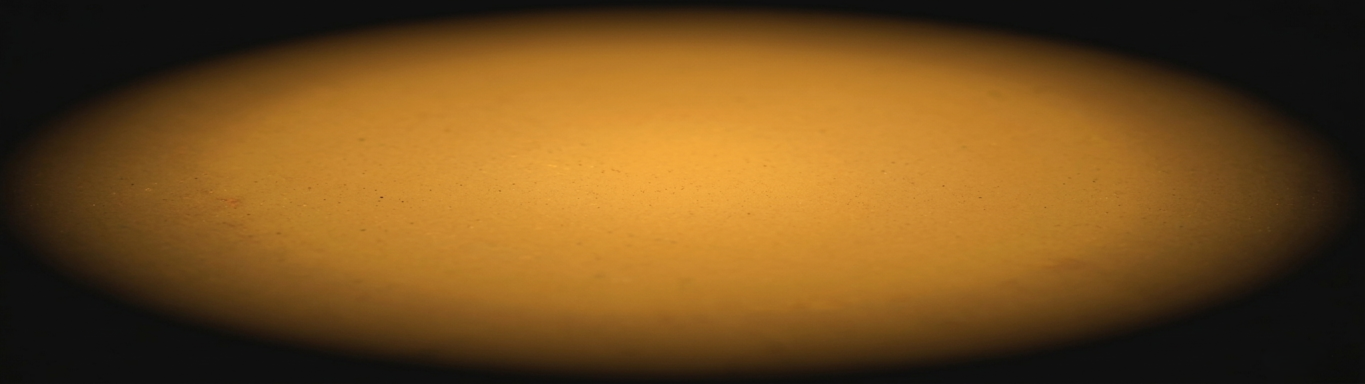
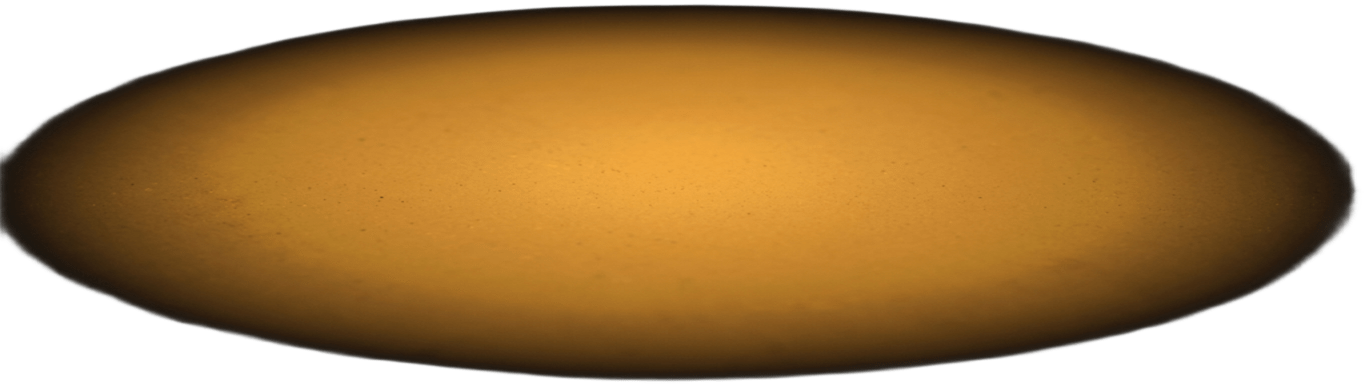
@

Changed region(s): [[0.0, 0.0, 1.0, 1.0]]

diff --git a/Src/Manager/InputManager.cpp b/Src/Manager/InputManager.cpp
@@ -49,6 +49,8 @@ void InputManager::Init(void)
 	InputManager::GetInstance().Add(KEY_INPUT_LSHIFT);
 
 	InputManager::GetInstance().Add(KEY_INPUT_BACKSLASH);
+	InputManager::GetInstance().Add(KEY_INPUT_ESCAPE);
+	
 
 	InputManager::MouseInfo info;
 
@@ -341,6 +343,9 @@ InputManager::JOYPAD_IN_STATE InputManager::GetJPadInputState(JOYPAD_NO no)
 
 		idx = static_cast<int>(JOYPAD_BTN::DOWN);
 		ret.ButtonsNew[idx] = d.Buttons[0];// A
+
+		idx = static_cast<int>(JOYPAD_BTN::START);
+		ret.ButtonsNew[idx] = d.Buttons[6];// A
 
 		idx = static_cast<int>(JOYPAD_BTN::R_TRIGGER);
 		ret.ButtonsNew[idx] = x.RightTrigger;// R_TRIGGER

diff --git a/Src/Manager/InputManager.h b/Src/Manager/InputManager.h
@@ -49,6 +49,7 @@ public:
 		RIGHT,
 		TOP,
 		DOWN,
+		START,
 		R_TRIGGER,
 		L_TRIGGER,
 		MAX